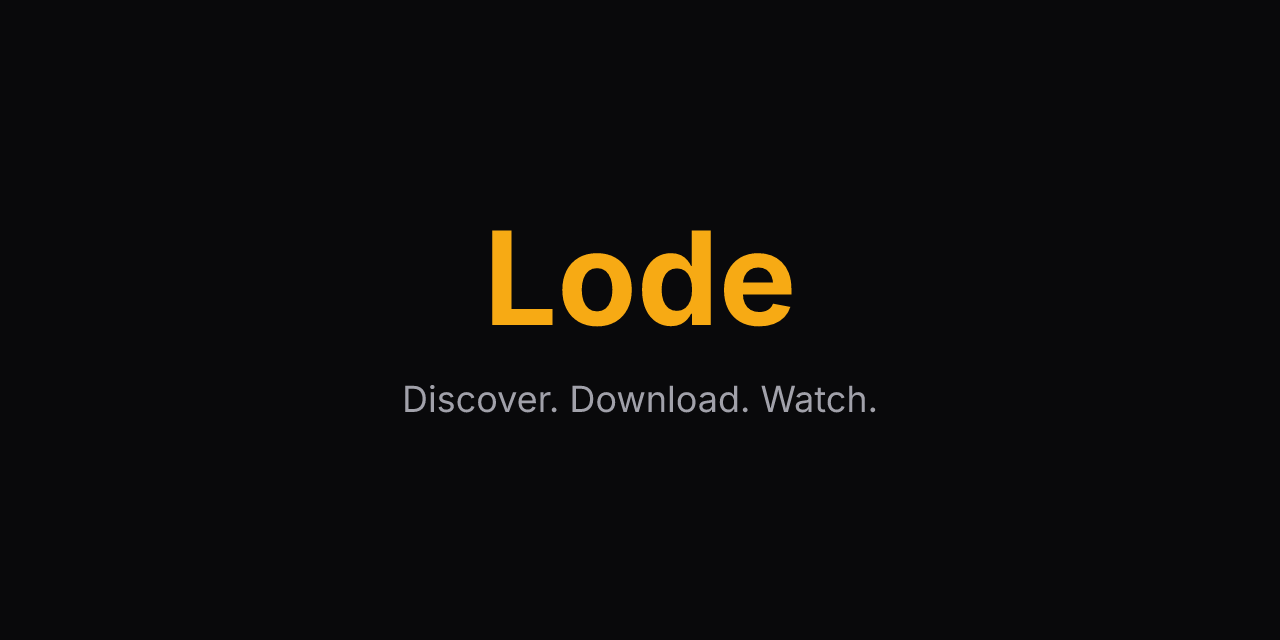
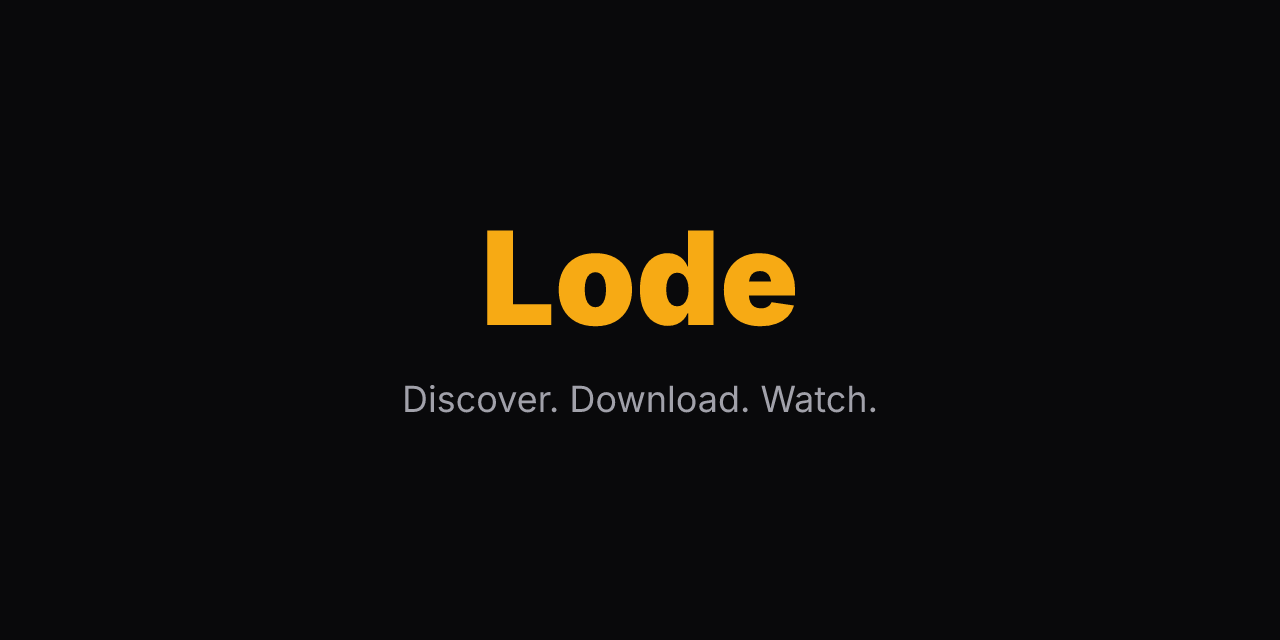
fix(branding): heavier Lode wordmark and horizontal login lockup

Changed region(s): [[0.375, 0.375, 0.625, 0.5]]

diff --git a/app/layouts/default.vue b/app/layouts/default.vue
@@ -114,7 +114,7 @@ watch(
 
       <NuxtLink
         to="/dashboard"
-        class="absolute left-1/2 -translate-x-1/2 text-lg font-bold text-gradient truncate max-w-[calc(100%-140px)]"
+        class="absolute left-1/2 -translate-x-1/2 text-3xl font-black text-gradient truncate max-w-[calc(100%-140px)]"
       >
         Lode
       </NuxtLink>
@@ -136,8 +136,8 @@ watch(
     <!-- Mobile sidebar -->
     <div class="mobile-sidebar sidebar lg:hidden" :class="{ open: mobileOpen }">
       <div class="p-4 flex flex-col h-full">
-        <div class="flex items-center justify-between mb-6">
-          <NuxtLink to="/dashboard" class="text-lg font-bold text-gradient">Lode</NuxtLink>
+        <div class="flex items-center justify-between mb-4">
+          <NuxtLink to="/dashboard" class="ps-2 text-4xl font-black text-gradient">Lode</NuxtLink>
           <button
             class="flex items-center justify-center p-1.5 rounded-lg hover:bg-zinc-100 dark:hover:bg-white/5 text-zinc-500"
             @click="mobileOpen = false"
@@ -201,8 +201,8 @@ watch(
 
     <!-- Desktop sidebar -->
     <aside class="lg:flex max-lg:hidden sidebar w-64 p-4 flex-col fixed h-full z-20 overflow-y-auto min-h-0">
-      <div class="mb-6 px-2">
-        <NuxtLink to="/dashboard" class="text-2xl font-bold text-gradient">Lode</NuxtLink>
+      <div class="mb-4 px-2">
+        <NuxtLink to="/dashboard" class="text-4xl font-black text-gradient">Lode</NuxtLink>
       </div>
 
       <nav class="flex-1 space-y-1">

diff --git a/app/pages/login.vue b/app/pages/login.vue
@@ -57,7 +57,10 @@ async function handleLogin() {
 
     <div class="w-full max-w-md px-4">
       <div class="text-center mb-6 sm:mb-8 pt-safe">
-        <h1 class="text-3xl sm:text-4xl font-bold text-gradient mb-2">Lode</h1>
+        <div class="flex items-center justify-center gap-3 sm:gap-4 mb-2">
+          <img src="/logo.svg" alt="" class="h-14 w-14 sm:h-16 sm:w-16" />
+          <h1 class="text-5xl sm:text-6xl font-black text-gradient">Lode</h1>
+        </div>
         <p class="text-zinc-500 dark:text-zinc-400 text-sm sm:text-base">{{ t('login.subtitle') }}</p>
       </div>
 

diff --git a/app/app.vue b/app/app.vue
@@ -8,7 +8,7 @@ useHead({
     { rel: 'preconnect', href: 'https://fonts.gstatic.com', crossorigin: '' },
     {
       rel: 'stylesheet',
-      href: 'https://fonts.googleapis.com/css2?family=Inter:wght@300;400;500;600;700&display=swap'
+      href: 'https://fonts.googleapis.com/css2?family=Inter:wght@300;400;500;600;700;800;900&display=swap'
     }
   ],
   htmlAttrs: {
